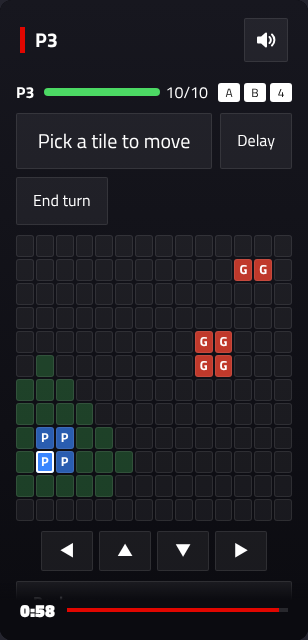
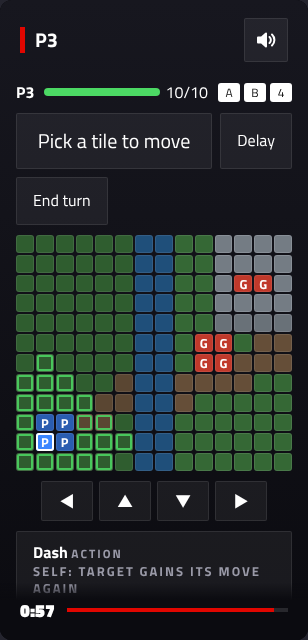
feat(play): terrain on the phone's battle map
The phone's turn map was dark squares while the TV showed the river, the
rocks and the dirt, so players couldn't plan around water. The map
decoding moves from the dev board into web/play/src/games/tactics/map.ts,
which both use, and the turn view now names its map. The phone draws the
whole battlefield in terrain colours, with reachable tiles and aims as
rings, sized to the screen's width. Until the map has loaded, and in
tests, it keeps the box around the units.

The playtest script waits for the map before its turn screenshot.

Claude-Session: https://claude.ai/code/session_01UZNTTTSTVdmDpmHb6bGDGn

diff --git a/web/play/src/games/tactics/screens.tsx b/web/play/src/games/tactics/screens.tsx
@@ -1,5 +1,6 @@
 import { useEffect, useMemo, useState } from "preact/hooks";
 import type { CustomScreenProps } from "../module";
+import { tileStyle, useMap, type MapData } from "./map";
 import type {
   AbilityChoice, ClassOption, Cost, EncounterOption, ReactData, ResultsData, StatusData, Tile, TargetChoice, TurnData, UnitView,
 } from "./types";
@@ -131,7 +132,8 @@ export function ReactPrompt({ data, send }: CustomScreenProps) {
  * `Choices.For`, so anything you can pick, the game accepts.
  */
 export function Turn({ data, send }: CustomScreenProps) {
-  const { me, units, choices } = data as TurnData;
+  const { me, units, choices, map: mapId } = data as TurnData;
+  const map = useMap(mapId);
   const [abilityIx, setAbilityIx] = useState<number | null>(null);
   const [cursor, setCursor] = useState<Tile>(me.at);
   useEffect(() => {
@@ -186,7 +188,7 @@ export function Turn({ data, send }: CustomScreenProps) {
         </div>
       )}
 
-      <MiniMap me={me} units={units} cursor={cursor} onPick={setCursor}
+      <MiniMap me={me} units={units} cursor={cursor} onPick={setCursor} map={map}
         reach={ability ? [] : choices.moves.map((m) => m.to)} aims={all.map((t) => t.aim)} />
       <DPad cursor={cursor} onMove={setCursor} />
 
@@ -223,12 +225,16 @@ export function Turn({ data, send }: CustomScreenProps) {
   );
 }
 
-function MiniMap({ me, units, cursor, reach, aims, onPick }: {
-  me: UnitView; units: UnitView[]; cursor: Tile; reach: Tile[]; aims: Tile[]; onPick(t: Tile): void;
+/**
+ * The battlefield around you: the whole map with its terrain once it has loaded from the content pack, else (and in
+ * tests) just the box around the units, your moves and the aims. Tap a tile to put the cursor there.
+ */
+function MiniMap({ me, units, cursor, reach, aims, onPick, map }: {
+  me: UnitView; units: UnitView[]; cursor: Tile; reach: Tile[]; aims: Tile[]; onPick(t: Tile): void; map: MapData | null;
 }) {
   const tiles = [me.at, cursor, ...units.map((u) => u.at), ...reach, ...aims];
-  const [x0, x1] = [Math.max(0, Math.min(...tiles.map((t) => t[0])) - 1), Math.max(...tiles.map((t) => t[0])) + 1];
-  const [y0, y1] = [Math.max(0, Math.min(...tiles.map((t) => t[1])) - 1), Math.max(...tiles.map((t) => t[1])) + 1];
+  const [x0, x1] = map ? [0, map.w - 1] : [Math.max(0, Math.min(...tiles.map((t) => t[0])) - 1), Math.max(...tiles.map((t) => t[0])) + 1];
+  const [y0, y1] = map ? [0, map.h - 1] : [Math.max(0, Math.min(...tiles.map((t) => t[1])) - 1), Math.max(...tiles.map((t) => t[1])) + 1];
   const at = (t: Tile) => units.find((u) => same(u.at, t));
   const rows = [];
   for (let y = y0; y <= y1; y++) {
@@ -242,14 +248,15 @@ function MiniMap({ me, units, cursor, reach, aims, onPick }: {
         aims.some((a) => same(a, t)) ? "aim" : "",
         same(cursor, t) ? "cursor" : ""].filter(Boolean).join(" ");
       cells.push(
-        <button type="button" key={x} class={cls} aria-label={u ? u.name : `${x}, ${y}`} onClick={() => onPick(t)}>
+        <button type="button" key={x} class={cls} aria-label={u ? u.name : `${x}, ${y}`} onClick={() => onPick(t)}
+          style={map && !u ? tileStyle(map, y * map.w + x) : undefined}>
           {u ? u.name[0] : ""}
         </button>,
       );
     }
     rows.push(<div class="tx-maprow" key={y}>{cells}</div>);
   }
-  return <div class="tx-map" role="grid">{rows}</div>;
+  return <div class={`tx-map${map ? " terrain" : ""}`} role="grid">{rows}</div>;
 }
 
 function DPad({ cursor, onMove }: { cursor: Tile; onMove(t: Tile): void }) {

diff --git a/web/play/src/dev/TacticsBoard.tsx b/web/play/src/dev/TacticsBoard.tsx
@@ -1,4 +1,5 @@
-import { useEffect, useRef, useState } from "preact/hooks";
+import { useEffect, useRef } from "preact/hooks";
+import { tileStyle, useMap, type MapData } from "../games/tactics/map";
 
 /**
  * A browser stand-in for the TV's ArcBox Tactics screens (the Godot scene is milestone 3b): the map from the content
@@ -30,44 +31,6 @@ export const isTacticsHostView = (v: unknown): v is TacticsHostView =>
 
 /** How long a beat stays on screen before the board says it's been shown. */
 const BEAT_MS = 700;
-
-interface MapData { w: number; h: number; heights: number[]; flags: number[]; materials: string[]; tileMaterial: number[] }
-
-/** Fetches and decodes a map file from the tactics content pack (3 bytes a tile: height, material, flags). */
-function useMap(id: string | undefined): MapData | null {
-  const [map, setMap] = useState<MapData | null>(null);
-  useEffect(() => {
-    if (!id) return;
-    let cancelled = false;
-    (async () => {
-      try {
-        const index = (await (await fetch("/content/tactics/index.json")).json()) as { packId: string; hash: string }[];
-        const base = index.find((p) => p.packId === "base");
-        if (!base) return;
-        const file = (await (await fetch(`/content/tactics/base/${base.hash}/rules/maps/${id}.json`)).json()) as {
-          size: Tile; tiles: string; materials: string[];
-        };
-        const bytes = Uint8Array.from(atob(file.tiles), (c) => c.charCodeAt(0));
-        const n = file.size[0] * file.size[1];
-        const pick = (k: number) => Array.from({ length: n }, (_, i) => bytes[i * 3 + k]!);
-        if (!cancelled) setMap({ w: file.size[0], h: file.size[1], heights: pick(0), tileMaterial: pick(1), flags: pick(2), materials: file.materials });
-      } catch (err) {
-        console.warn("Couldn't load the map", id, err);
-      }
-    })();
-    return () => { cancelled = true; };
-  }, [id]);
-  return map;
-}
-
-const MATERIAL_COLOURS: Record<string, string> = { grass: "#2f5d2f", dirt: "#5a4632", water: "#1f4f7a", rock: "#555b61", stone: "#4b4f55", sand: "#7a6a45", wood: "#5b3d22", snow: "#9aa4ad" };
-
-function tileColour(map: MapData, i: number): string {
-  const material = map.materials[map.tileMaterial[i]!] ?? "";
-  const base = MATERIAL_COLOURS[material.split("/")[0]!] ?? "#3a3a3a";
-  if (map.flags[i]! & 4) return "#111";                 // impassable
-  return base;
-}
 
 /** One line for an event, or null for the ones the log leaves out. */
 export function describe(e: BattleEvent, name: (id: unknown) => string): string | null {
@@ -151,10 +114,9 @@ function Battle({ battle, map }: { battle: BattleView; map: MapData | null }) {
         {Array.from({ length: w * h }, (_, i) => {
           const x = i % w, y = Math.floor(i / w);
           const u = battle.units.find((v) => v.at[0] === x && v.at[1] === y);
-          const height = map?.heights[i] ?? 0;
           return (
             <div key={i} class={`tx-board-tile${u && u.id === battle.active ? " active" : ""}`}
-              style={{ background: map ? tileColour(map, i) : "#2a2a2a", filter: `brightness(${1 + height * 0.12})` }}>
+              style={map ? tileStyle(map, i) : { background: "#2a2a2a" }}>
               {u ? (
                 <span class={`tx-board-unit ${u.side === "Party" ? "party" : u.side === "Enemy" ? "enemy" : "neutral"} ${u.life.toLowerCase()}`}
                   title={`${u.name} ${u.hp}/${u.maxHp}`}>

diff --git a/web/play/src/games/tactics/map.ts b/web/play/src/games/tactics/map.ts
@@ -1,0 +1,66 @@
+import { useEffect, useState } from "preact/hooks";
+
+/**
+ * A battle map from the tactics content pack (`rules/maps/<id>.json`), decoded for drawing: per tile, row by row, its
+ * height, material index and flags (3 bytes a tile in the file's base64 `tiles`). Shared by the phone's turn map and the
+ * dev page's board.
+ */
+export interface MapData { w: number; h: number; heights: number[]; flags: number[]; materials: string[]; tileMaterial: number[] }
+
+export interface MapFile { size: [number, number]; tiles: string; materials: string[] }
+
+/** Decodes a map file's tiles. */
+export function decodeMap(file: MapFile): MapData {
+  const bytes = Uint8Array.from(atob(file.tiles), (c) => c.charCodeAt(0));
+  const n = file.size[0] * file.size[1];
+  const pick = (k: number) => Array.from({ length: n }, (_, i) => bytes[i * 3 + k] ?? 0);
+  return { w: file.size[0], h: file.size[1], heights: pick(0), tileMaterial: pick(1), flags: pick(2), materials: file.materials };
+}
+
+const cache = new Map<string, Promise<MapData | null>>();
+
+/** Fetches a map through the content endpoint (the pack's current hash from its index); null if it can't. Cached. */
+export function loadMap(id: string): Promise<MapData | null> {
+  let pending = cache.get(id);
+  if (!pending) {
+    pending = (async () => {
+      try {
+        const index = (await (await fetch("/content/tactics/index.json")).json()) as { packId: string; hash: string }[];
+        const base = index.find((p) => p.packId === "base");
+        if (!base) return null;
+        return decodeMap((await (await fetch(`/content/tactics/base/${base.hash}/rules/maps/${id}.json`)).json()) as MapFile);
+      } catch (err) {
+        console.warn("Couldn't load the map", id, err);
+        cache.delete(id);   // try again next time
+        return null;
+      }
+    })();
+    cache.set(id, pending);
+  }
+  return pending;
+}
+
+/** The map, once loaded; null until then (and when there's no id or it can't load). */
+export function useMap(id: string | undefined | null): MapData | null {
+  const [map, setMap] = useState<MapData | null>(null);
+  useEffect(() => {
+    if (!id) return;
+    let live = true;
+    void loadMap(id).then((m) => { if (live) setMap(m); });
+    return () => { live = false; };
+  }, [id]);
+  return map;
+}
+
+const MATERIALS: Record<string, string> = {
+  grass: "#2f5d2f", dirt: "#5a4632", water: "#1f4f7a", rock: "#555b61", stone: "#4b4f55", sand: "#7a6a45", wood: "#5b3d22",
+  snow: "#9aa4ad",
+};
+
+/** A tile's colour: its material's family ("water/clear" → water), darker when impassable, lighter with height. */
+export function tileStyle(map: MapData, i: number): { background: string; filter?: string } {
+  if ((map.flags[i] ?? 0) & 4) return { background: "#111" };   // impassable
+  const material = map.materials[map.tileMaterial[i] ?? 0] ?? "";
+  const height = map.heights[i] ?? 0;
+  return { background: MATERIALS[material.split("/")[0]!] ?? "#3a3a3a", filter: height ? `brightness(${1 + height * 0.12})` : undefined };
+}

diff --git a/web/play/test/tacticsMap.test.ts b/web/play/test/tacticsMap.test.ts
@@ -1,0 +1,18 @@
+import { describe, expect, it } from "vitest";
+import { decodeMap, tileStyle } from "../src/games/tactics/map";
+
+describe("tactics map decoding", () => {
+  // A 2×1 map: grass at height 0, then impassable rock at height 2. Bytes: height, material, flags per tile.
+  const file = { size: [2, 1] as [number, number], tiles: btoa(String.fromCharCode(0, 0, 0, 2, 1, 4)), materials: ["grass/lush", "rock/grey"] };
+
+  it("reads height, material and flags per tile, row by row", () => {
+    const map = decodeMap(file);
+    expect(map).toEqual({ w: 2, h: 1, heights: [0, 2], tileMaterial: [0, 1], flags: [0, 4], materials: ["grass/lush", "rock/grey"] });
+  });
+
+  it("colours tiles by material family, and impassable ones dark", () => {
+    const map = decodeMap(file);
+    expect(tileStyle(map, 0).background).toBe("#2f5d2f");
+    expect(tileStyle(map, 1)).toEqual({ background: "#111" });
+  });
+});

diff --git a/web/play/src/games/tactics/tactics.css b/web/play/src/games/tactics/tactics.css
@@ -23,6 +23,12 @@
 .tx-maprow { display: flex; gap: 2px; }
 .tx-cell { width: 22px; height: 22px; min-height: 22px; padding: 0; border-radius: 3px; font-size: 13px; font-weight: 700; background: rgba(255, 255, 255, 0.05); }
 .tx-cell.reach { background: rgba(76, 217, 100, 0.25); }
+/* On terrain the tile keeps its colour; reach and aims show as an inner ring instead. */
+.tx-map.terrain { align-self: stretch; }
+.tx-map.terrain .tx-maprow { display: grid; grid-auto-columns: 1fr; grid-auto-flow: column; }
+.tx-map.terrain .tx-cell { width: auto; aspect-ratio: 1; height: auto; min-height: 0; }
+.tx-map.terrain .tx-cell.reach { box-shadow: inset 0 0 0 2px rgba(76, 217, 100, 0.85); }
+.tx-map.terrain .tx-cell.aim { box-shadow: inset 0 0 0 2px #ff9f0a; }
 .tx-cell.aim { background: rgba(255, 159, 10, 0.35); }
 .tx-cell.me { background: #3a86ff; }
 .tx-cell.ally { background: #2a5db0; }

diff --git a/web/play/src/games/tactics/types.ts b/web/play/src/games/tactics/types.ts
@@ -83,6 +83,8 @@ export interface TurnChoices {
 
 export interface TurnData {
   me: UnitView;
+  /** The map id, for its terrain from the content pack. */
+  map?: string;
   units: UnitView[];
   choices: TurnChoices;
 }

diff --git a/games/Tactics/Tactics.Game/TacticsGame.Views.cs b/games/Tactics/Tactics.Game/TacticsGame.Views.cs
@@ -112,6 +112,7 @@ public sealed partial class TacticsGame
             return Custom(Screens.Turn, new
             {
                 me = UnitViewOf(me),
+                map = state.MapId,
                 units = state.Units.Values.Where(DownedRules.InBattle).Select(UnitViewOf),
                 choices = PhoneChoices.Of(Choices.For(state, unit, Rules)),
             })

diff --git a/docs/superpowers/reports/2026-10-31-tactics-playtest.md b/docs/superpowers/reports/2026-10-31-tactics-playtest.md
@@ -25,6 +25,7 @@ Both lose with level-1 default characters played this simply. The point was to s
 
    The same battle now finishes in about 2 minutes.
 2. **A player's pass on a reaction read "P4 reacts: pass"** in the log. It now reads "P4 lets it go".
+3. **The phone's map had no terrain:** dark squares where the TV showed a river. The map decoding is now shared (`web/play/src/games/tactics/map.ts`), and the turn data names its map. The phone draws the whole battlefield in its terrain colours, with reachable tiles and aims as rings (the turn screen above).
 
 ## A fight from the phones
 
@@ -37,5 +38,4 @@ In `--fight` mode the party crosses the river and fights. The phones' Attack →
 ## Still to look at, with real people
 
 - Picking targets for an area spell on the map with the d-pad: the code is tested, but nobody has tried it.
-- The phone map has no terrain yet. The board's map decoding could be shared, so water and rocks show on the phone too.
 - Real phones on the LAN, rather than iframes (docs/dev-playtest.md §3).
